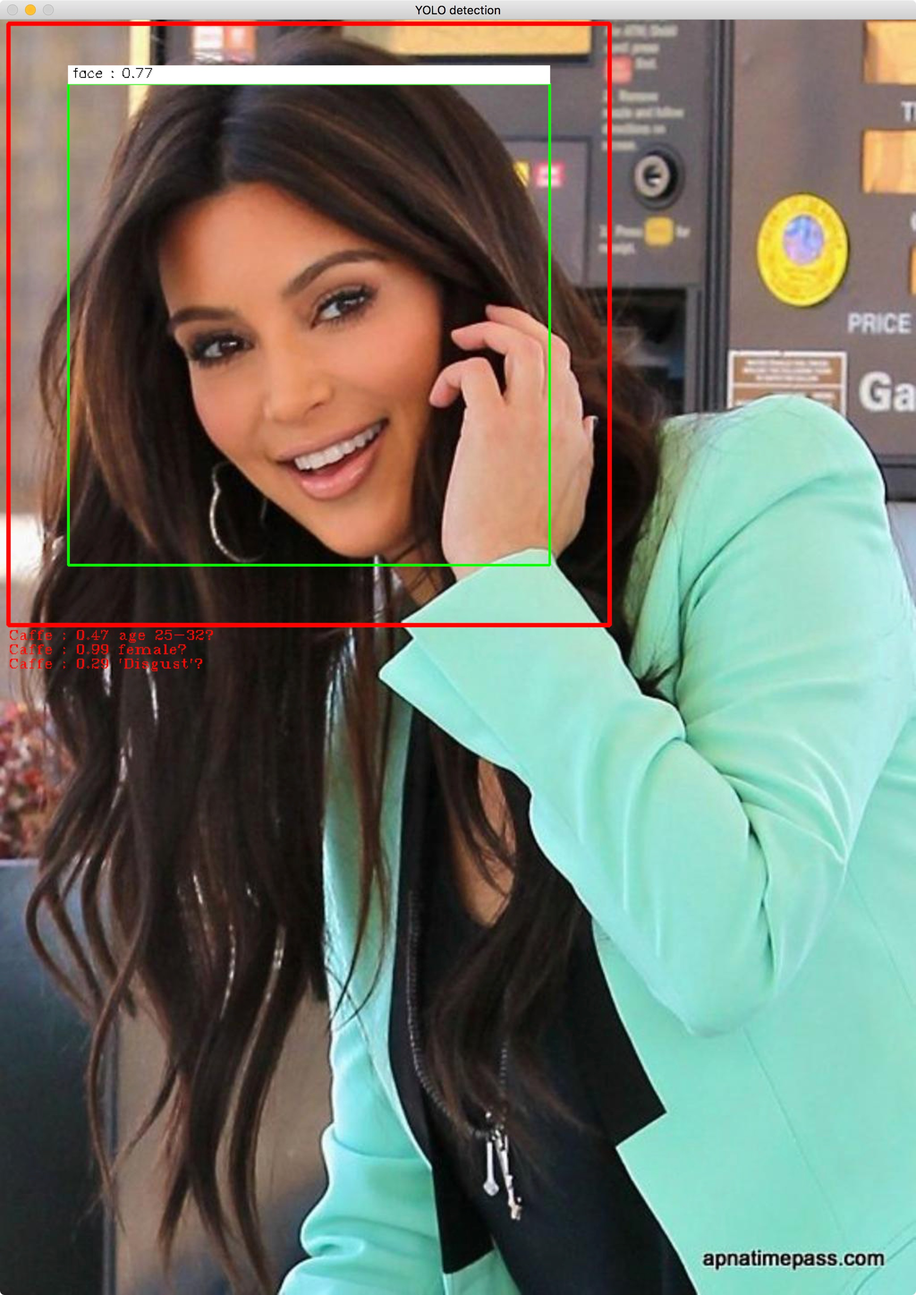
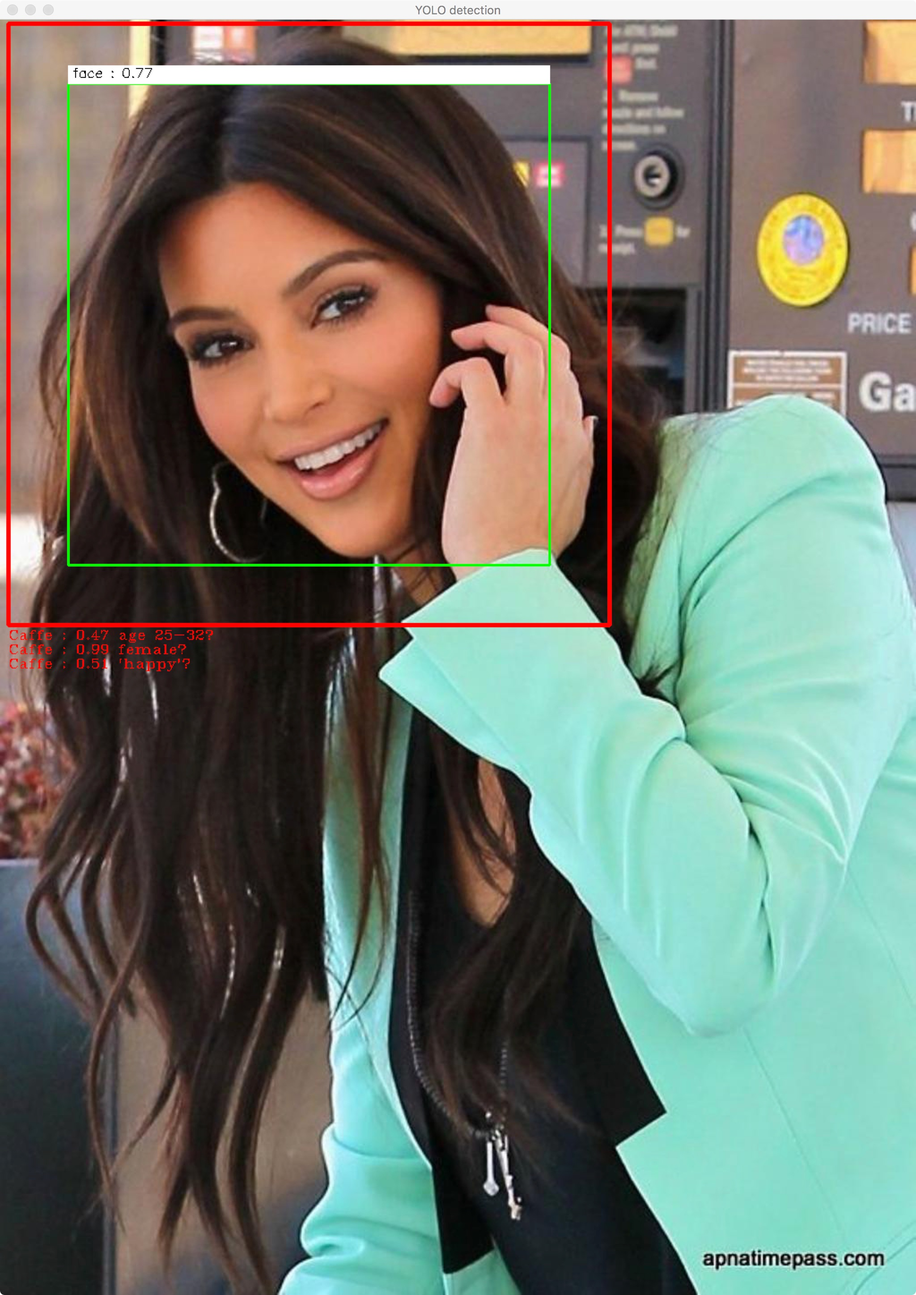
Update emotion model

Changed region(s): [[0.0, 0.0, 1.0, 0.0311], [0.1562, 0.4976, 0.2188, 0.5287], [0.0938, 0.4976, 0.125, 0.5287]]

diff --git a/agegender_demo.py b/agegender_demo.py
@@ -10,6 +10,8 @@ import sys, getopt
 import cv2
 import os
 
+#os.environ['KERAS_BACKEND'] = 'tensorflow'
+
 import plaidml.keras
 plaidml.keras.install_backend()
 
@@ -80,7 +82,7 @@ def iou(box1,box2):
 	else : intersection =  tb*lr
 	return intersection / (box1[2]*box1[3] + box2[2]*box2[3] - intersection)
 
-def show_results(MODE,img,results, img_width, img_height, net_age, net_gender, net_emotion, mean_age_gender, mean_emotion, model_age, model_gender):
+def show_results(MODE,img,results, img_width, img_height, net_age, net_gender, net_emotion, model_age, model_gender, model_emotion):
 	img_cp = img.copy()
 	for i in range(len(results)):
 		x = int(results[i][1])
@@ -139,24 +141,18 @@ def show_results(MODE,img,results, img_width, img_height, net_age, net_gender, n
 
 		IMAGE_SIZE=227
 		IMAGE_SIZE_KERAS=224
+		IMAGE_SIZE_FER2013=64
 
 		img = cv2.resize(face_image, (IMAGE_SIZE,IMAGE_SIZE))
 		img = np.expand_dims(img, axis=0)
-		if(mean_age_gender != None):
-			img = img.transpose((0, 3, 1, 2))
-			img = img - mean_age_gender
-		else:
-			img = img - (104,117,123) #BGR mean value of VGG16
-			img = img.transpose((0, 3, 1, 2))
+		img = img - (104,117,123) #BGR mean value of VGG16
+		img = img.transpose((0, 3, 1, 2))
 
-		img_emotion = cv2.resize(face_image, (IMAGE_SIZE_KERAS,IMAGE_SIZE_KERAS))
-		img_emotion = np.expand_dims(img_emotion, axis=0)
-		if(mean_emotion != None):
-			img_emotion = img_emotion.transpose((0, 3, 1, 2))
-			img_emotion = img_emotion - mean_emotion
-		else:
-			img_emotion = img_emotion - (104,117,123) #BGR mean value of VGG16
-			img_emotion = img_emotion.transpose((0, 3, 1, 2))
+		img_fer2013 = cv2.resize(face_image, (IMAGE_SIZE_FER2013,IMAGE_SIZE_FER2013))
+		img_fer2013 = cv2.cvtColor(img_fer2013,cv2.COLOR_BGR2GRAY)
+		img_fer2013 = np.expand_dims(img_fer2013, axis=0)
+		img_fer2013 = np.expand_dims(img_fer2013, axis=3)
+		img_fer2013 = img_fer2013 / 255.0 *2 -1
 
 		img_keras = cv2.resize(face_image, (IMAGE_SIZE_KERAS,IMAGE_SIZE_KERAS))
 		img_keras = img_keras[::-1, :, ::-1].copy()	#BGR to RGB
@@ -176,7 +172,7 @@ def show_results(MODE,img,results, img_width, img_height, net_age, net_gender, n
 
 		lines_age=open('words/agegender_age_words.txt').readlines()
 		lines_gender=open('words/agegender_gender_words.txt').readlines()
-		lines_emotion=open('words/emotion_words.txt').readlines()
+		lines_fer2013=open('words/emotion_words.txt').readlines()
 
 		if(net_age!=None):
 			out = net_age.forward_all(data = img)
@@ -198,11 +194,11 @@ def show_results(MODE,img,results, img_width, img_height, net_age, net_gender, n
 			offset=offset+16
 
 		if(net_emotion!=None):
-			out = net_emotion.forward_all(data = img_emotion)
-			pred_emotion = out[caffe_final_layer]
+			out = net_emotion.forward_all(data = img_fer2013.transpose((0, 3, 1, 2)))
+			pred_emotion = out["global_average_pooling2d_1"]
 			prob_emotion = np.max(pred_emotion)
 			cls_emotion = pred_emotion.argmax()
-			cv2.putText(target_image, "Caffe : %.2f" % prob_emotion + " " + lines_emotion[cls_emotion], (x2,y2+h2+offset), cv2.FONT_HERSHEY_COMPLEX_SMALL, 0.8, (0,0,250));
+			cv2.putText(target_image, "Caffe : %.2f" % prob_emotion + " " + lines_fer2013[cls_emotion], (x2,y2+h2+offset), cv2.FONT_HERSHEY_COMPLEX_SMALL, 0.8, (0,0,250));
 			offset=offset+16
 
 		if(model_age!=None):
@@ -217,6 +213,13 @@ def show_results(MODE,img,results, img_width, img_height, net_age, net_gender, n
 			prob_gender_keras = np.max(pred_gender_keras)
 			cls_gender_keras = pred_gender_keras.argmax()
 			cv2.putText(target_image, "Keras : %.2f" % prob_gender_keras + " " + lines_gender[cls_gender_keras], (x2,y2+h2+offset), cv2.FONT_HERSHEY_COMPLEX_SMALL, 0.8, (0,0,250));
+			offset=offset+16
+
+		if(model_emotion!=None):
+			pred_emotion_keras = model_emotion.predict(img_fer2013)[0]
+			prob_emotion_keras = np.max(pred_emotion_keras)
+			cls_emotion_keras = pred_emotion_keras.argmax()
+			cv2.putText(target_image, "Keras : %.2f" % prob_emotion_keras + " " + lines_fer2013[cls_emotion_keras], (x2,y2+h2+offset), cv2.FONT_HERSHEY_COMPLEX_SMALL, 0.8, (0,0,250));
 			offset=offset+16
 
 	cv2.imshow('YOLO detection',img_cp)
@@ -263,29 +266,11 @@ def main(argv):
 	if(MODE == "caffe" or MODE == "caffekeras"):
 		net_age  = caffe.Net('./pretrain/deploy_age.prototxt', './pretrain/age_net.caffemodel', caffe.TEST)
 		net_gender  = caffe.Net('./pretrain/deploy_gender.prototxt', './pretrain/gender_net.caffemodel', caffe.TEST)
-		if(os.path.exists('./pretrain/EmotiW_VGG_S.prototxt')):
-			net_emotion = caffe.Net('./pretrain/EmotiW_VGG_S.prototxt', './pretrain/EmotiW_VGG_S.caffemodel', caffe.TEST)
-		else:
-			net_emotion = None
-
-		mean_age_gender=None
-		mean_emotion=None
-	
-		#if(os.path.exists('./pretrain/age_gender_net.binaryproto')):
-		#	mean_age_gender=get_mean('./pretrain/age_gender_net.binaryproto',227,227)
-		#else:
-		#	mean_age_gender=()
-	
-		#if(os.path.exists('./pretrain/EmotiW_VGG_S.binaryproto')):
-		#	mean_emotion=get_mean('./pretrain/EmotiW_VGG_S.binaryproto',224,224)
-		#else:
-		#	mean_emotion=()
+		net_emotion = caffe.Net('./pretrain/emotion_miniXception.prototxt', './pretrain/emotion_miniXception.caffemodel', caffe.TEST)
 	else:
 		net_age=None
 		net_gender=None
 		net_emotion=None
-		mean_age_gender=None
-		mean_emotion=None
 
 	if(MODE == "converted"):
 		net_age  = caffe.Net('./pretrain/agegender_age_vgg16.prototxt', './pretrain/agegender_age_vgg16.caffemodel', caffe.TEST)
@@ -294,9 +279,14 @@ def main(argv):
 	if(MODE == "keras" or MODE == "caffekeras"):
 		model_age = load_model('./pretrain/train_age_vgg16.hdf5')
 		model_gender = load_model('./pretrain/train_gender_vgg16.hdf5')
+		#if(os.path.exists('./pretrain/fer2013_mini_XCEPTION.102-0.66.hdf5')):
+		#	model_emotion = load_model('./pretrain/fer2013_mini_XCEPTION.102-0.66.hdf5')
+		#else:
+		model_emotion = None
 	else:
 		model_age = None
 		model_gender = None
+		model_emotion = None
 
 	while True:
 		cap = cv2.VideoCapture(0)
@@ -314,7 +304,7 @@ def main(argv):
 		out = net.forward_all(data=np.asarray([transformer.preprocess('data', inputs)]))
 		img_cv = cv2.cvtColor(img, cv2.COLOR_RGB2BGR)
 		results = interpret_output(out['layer20-fc'][0], img.shape[1], img.shape[0])
-		show_results(MODE,img_cv,results, img.shape[1], img.shape[0], net_age, net_gender, net_emotion, mean_age_gender, mean_emotion, model_age, model_gender)
+		show_results(MODE,img_cv,results, img.shape[1], img.shape[0], net_age, net_gender, net_emotion, model_age, model_gender, model_emotion)
 
 		k = cv2.waitKey(1)
 		if k == 27:

diff --git a/agegender_predict.py b/agegender_predict.py
@@ -6,9 +6,12 @@ import caffe
 import cv2
 import sys
 import numpy as np
+import os
 
-import plaidml.keras
-plaidml.keras.install_backend()
+os.environ['KERAS_BACKEND'] = 'tensorflow'
+
+#import plaidml.keras
+#plaidml.keras.install_backend()
 
 from keras.applications.vgg16 import VGG16
 from keras.preprocessing import image
@@ -23,10 +26,12 @@ import keras2caffe
 ANNOTATIONS='agegender'
 #ANNOTATIONS='gender'
 #ANNOTATION='age'
+#ANNOTATION='emotion'
 
-MODELS="vgg16"
+#MODELS="vgg16"
 #MODELS="small_cnn"
 #MODELS="simple_cnn"
+MODELS="miniXception"
 
 # ----------------------------------------------
 # Argument
@@ -49,8 +54,12 @@ if ANNOTATIONS!="agegender" and ANNOTATIONS!="gender" and ANNOTATIONS!="age":
 MODEL_HDF5='train_'+ANNOTATIONS+'_'+MODELS+'.hdf5'
 ANNOTATION_WORDS='words/agegender_'+ANNOTATIONS+'_words.txt'
 
+if(MODELS=="miniXception"):
+	MODEL_HDF5='pretrain/fer2013_mini_XCEPTION.102-0.66.hdf5'
+	ANNOTATION_WORDS='words/fer2013_words.txt'
+
 IMAGE_SIZE = 32
-if(MODELS=='simple_cnn'):
+if(MODELS=='simple_cnn' or MODELS=='miniXception'):
 	IMAGE_SIZE = 64
 if(MODELS=='vgg16'):
 	IMAGE_SIZE = 224
@@ -66,13 +75,19 @@ net  = caffe.Net('agegender_'+ANNOTATIONS+'_'+MODELS+'.prototxt', 'agegender_'+A
 # data
 # ----------------------------------------------
 
-img = cv2.imread('agegender/annotations/agegender/validation/0_0-2_m/landmark_aligned_face.84.8277643357_43f107482d_o.jpg')
+img = cv2.imread('dataset/agegender/annotations/agegender/validation/0_0-2_m/landmark_aligned_face.84.8277643357_43f107482d_o.jpg')
 img = cv2.resize(img, (IMAGE_SIZE, IMAGE_SIZE))
-img = img[...,::-1]  #BGR 2 RGB
+if(MODELS=='miniXception'):
+	img = cv2.cvtColor(img,cv2.COLOR_BGR2GRAY)
+	img = np.expand_dims(img, axis=2)
+else:
+	img = img[...,::-1]  #BGR 2 RGB
 
 data = np.array(img, dtype=np.float32)
 data.shape = (1,) + data.shape
 data /= 255
+if(MODELS=='miniXception'):
+	data = data*2 - 1
 
 # ----------------------------------------------
 # verify
@@ -87,10 +102,15 @@ print prob, cls, lines[cls]
 data = data.transpose((0, 3, 1, 2))
 
 out = net.forward_all(data = data)
-if(MODELS=='vgg16'):
-	pred = out['dense_2']
+
+if(MODELS=="miniXception"):
+	pred = out['global_average_pooling2d_1']
 else:
-	pred = out['predictions']
+	if(MODELS=='vgg16'):
+		pred = out['dense_2']
+	else:
+		pred = out['predictions']
+
 prob = np.max(pred)
 cls = pred.argmax()
 lines=open(ANNOTATION_WORDS).readlines()

diff --git a/agegender_train.py b/agegender_train.py
@@ -33,8 +33,8 @@ ANNOTATIONS='agegender'
 #ANNOTATIONS='gender'
 #ANNOTATIONS='age'
 
-MODELS="inceptionv3"
-#MODELS="vgg16"
+#MODELS="inceptionv3"
+MODELS="vgg16"
 #MODELS="small_cnn"
 #MODELS="simple_cnn"
 
@@ -166,11 +166,13 @@ elif(MODEL_HDF5=='simple_cnn'):
 else:
    raise Exception('invalid model name')
 
-#from keras.optimizers import SGD
-  #model.compile(optimizer=SGD(lr=0.0001, momentum=0.9), loss='categorical_crossentropy',metrics=['accuracy'])
+#for fine tuning
+from keras.optimizers import SGD
+model.compile(optimizer=SGD(lr=0.0001, momentum=0.9), loss='categorical_crossentropy',metrics=['accuracy'])
 
-from keras.optimizers import Adagrad
-model.compile(optimizer=Adagrad(lr=0.01, epsilon=1e-08, decay=0.0), loss='categorical_crossentropy',metrics=['accuracy'])
+#for full training
+#from keras.optimizers import Adagrad
+#model.compile(optimizer=Adagrad(lr=0.01, epsilon=1e-08, decay=0.0), loss='categorical_crossentropy',metrics=['accuracy'])
 
 model.summary()
 

diff --git a/README.md b/README.md
@@ -53,7 +53,7 @@ Put in pretain folder.
 
 ### Face Detection
 
-from <https://github.com/dannyblueliu/YOLO-version-2-Face-detection>
+Converted from <https://github.com/dannyblueliu/YOLO-version-2-Face-detection>
 
 <http://www.abars.biz/keras/face.prototxt>
 
@@ -65,9 +65,13 @@ Put in pretain folder.
 
 ### Emotion Detection
 
-<https://gist.github.com/GilLevi/54aee1b8b0397721aa4b>
+Converted from <https://github.com/oarriaga/face_classification>
 
-Download EmotiW_VGG_S.caffemodel and EmotiW_VGG_S.caffemodel.prototxt (rename from deploy.prototxt).
+<http://www.abars.biz/keras/emotion_miniXception.prototxt>
+
+<http://www.abars.biz/keras/emotion_miniXception.caffemodel>
+
+Download emotion_miniXception.prototxt andemotion_miniXception.caffemodel.
 
 Put in pretain folder.
 
@@ -84,6 +88,10 @@ Here is a training tutorial. (Experimental)
 https://github.com/abars/YoloKerasFaceDetection/blob/master/TRAIN.md
 
 # Related Work
+
+<https://github.com/oarriaga/face_classification>
+
+<https://gist.github.com/GilLevi/54aee1b8b0397721aa4b>
 
 <https://www.openu.ac.il/home/hassner/projects/cnn_agegender/>
 
